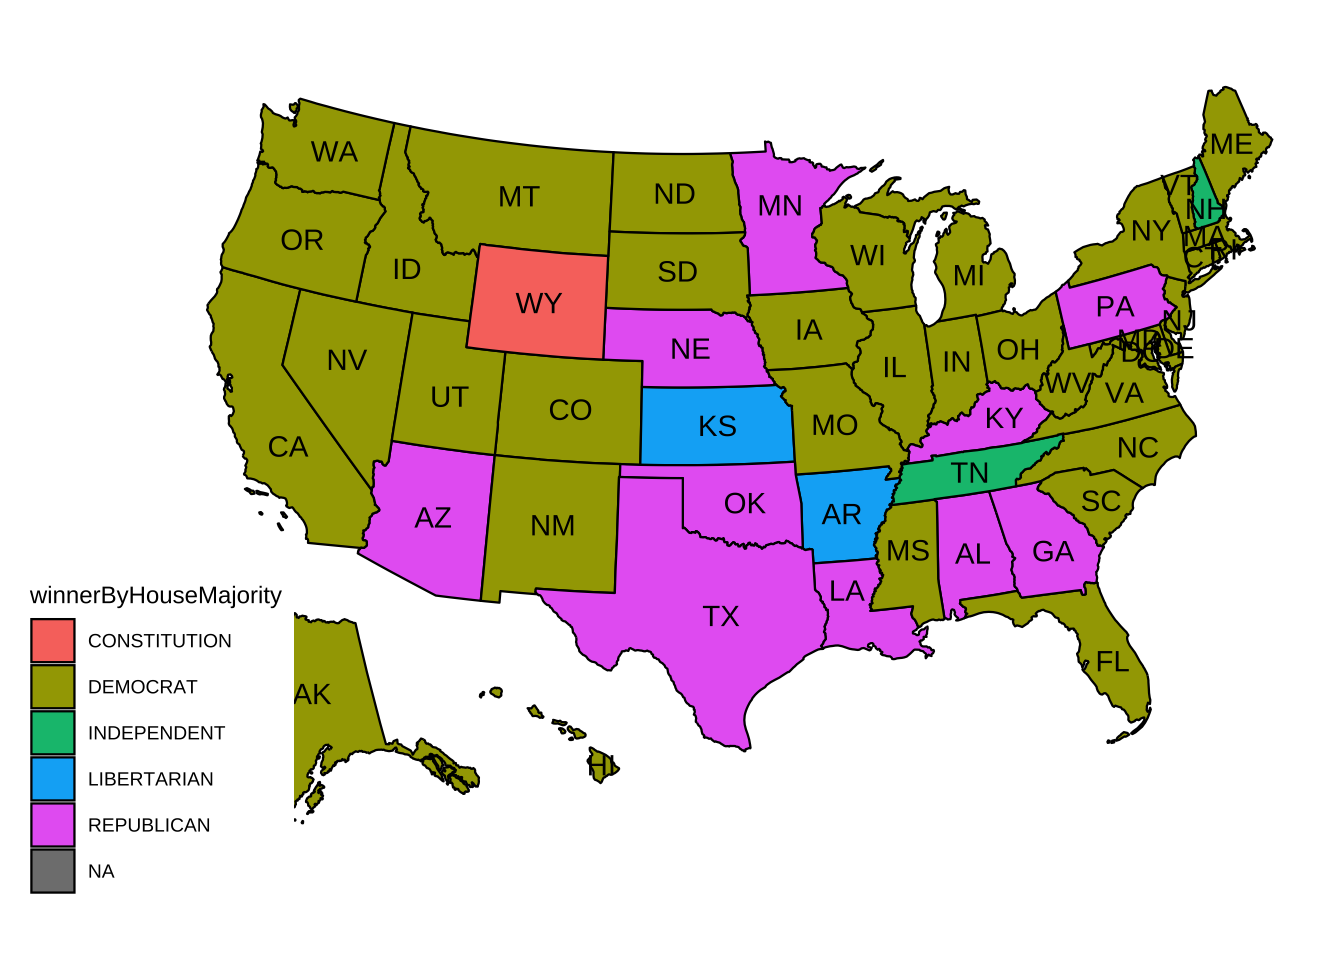
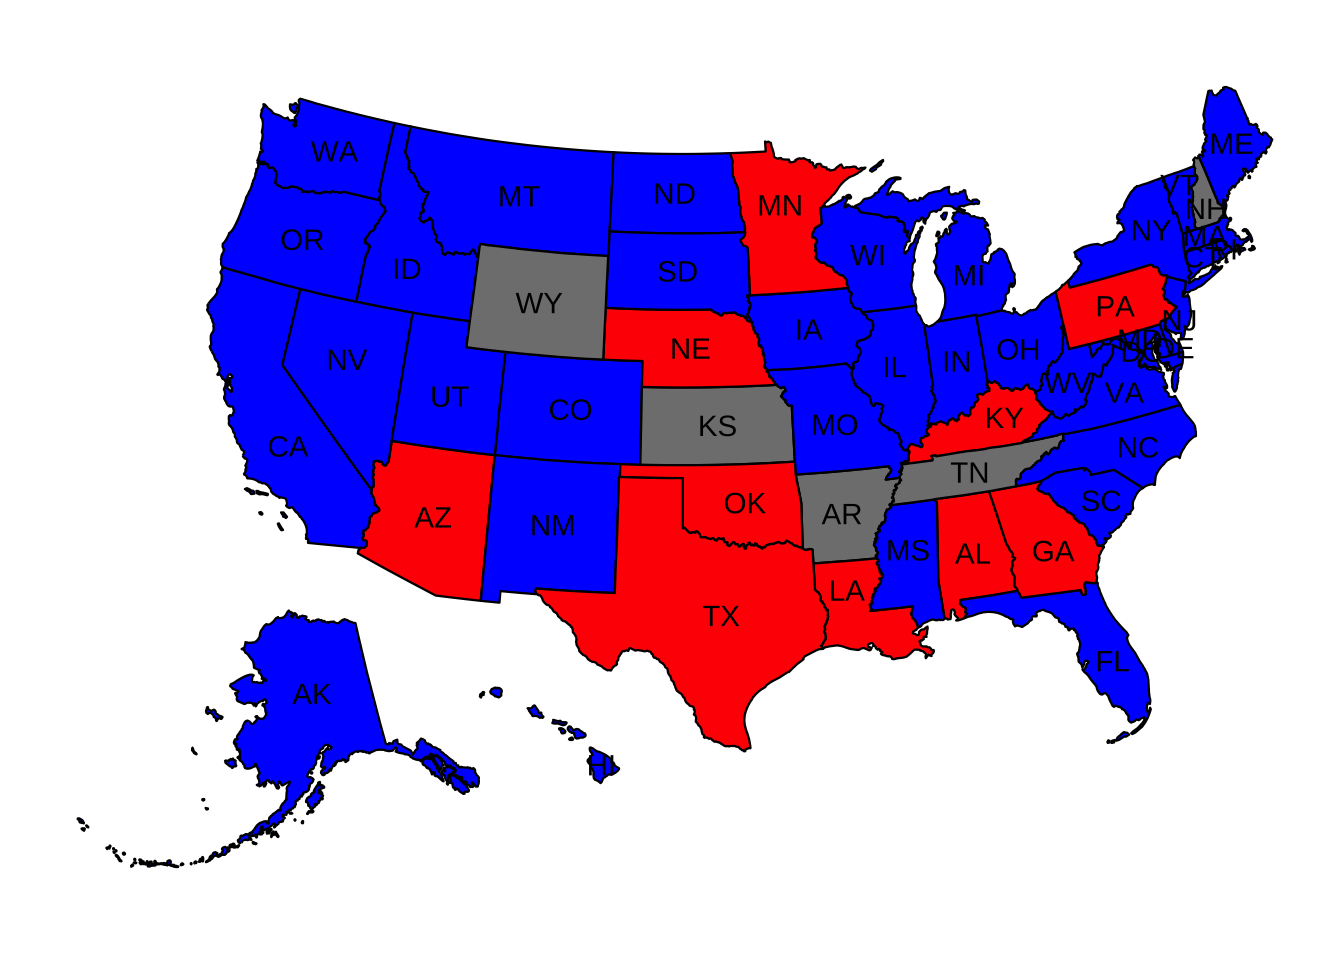
adding my changes

diff --git a/_site/index.html b/_site/index.html
@@ -219,7 +219,9 @@ pre > code.sourceCode > span > a:first-child::before { text-decoration: underlin
 <span id="cb3-7"><a href="#cb3-7" aria-hidden="true" tabindex="-1"></a>               dplyr,</span>
 <span id="cb3-8"><a href="#cb3-8" aria-hidden="true" tabindex="-1"></a>               usmap,</span>
 <span id="cb3-9"><a href="#cb3-9" aria-hidden="true" tabindex="-1"></a>               sf,</span>
-<span id="cb3-10"><a href="#cb3-10" aria-hidden="true" tabindex="-1"></a>               ggrepel)</span></code><button title="Copy to Clipboard" class="code-copy-button"><i class="bi"></i></button></pre></div>
+<span id="cb3-10"><a href="#cb3-10" aria-hidden="true" tabindex="-1"></a>               ggrepel,</span>
+<span id="cb3-11"><a href="#cb3-11" aria-hidden="true" tabindex="-1"></a>               scales,</span>
+<span id="cb3-12"><a href="#cb3-12" aria-hidden="true" tabindex="-1"></a>               usmapdata)</span></code><button title="Copy to Clipboard" class="code-copy-button"><i class="bi"></i></button></pre></div>
 </div>
 <p>Add new sections as necessary [DELETE BEFORE TURNING IN]</p>
 </section>
@@ -281,15 +283,18 @@ lgl (5): runoff, special, writein, unofficial, fusion_ticket
 <span id="cb9-16"><a href="#cb9-16" aria-hidden="true" tabindex="-1"></a>    <span class="fu">group_by</span>(state) <span class="sc">|&gt;</span></span>
 <span id="cb9-17"><a href="#cb9-17" aria-hidden="true" tabindex="-1"></a>    <span class="fu">summarize</span>(<span class="at">winnerByTotalVotes =</span> party[<span class="fu">which.max</span>(candidatevotes)], </span>
 <span id="cb9-18"><a href="#cb9-18" aria-hidden="true" tabindex="-1"></a>              <span class="at">partyVotes =</span> <span class="fu">sum</span>(candidatevotes)) <span class="sc">|&gt;</span></span>
-<span id="cb9-19"><a href="#cb9-19" aria-hidden="true" tabindex="-1"></a>    <span class="fu">mutate</span>(<span class="at">fips =</span> <span class="fu">fips</span>(state)) <span class="co">#necessary for plotting on US map</span></span>
+<span id="cb9-19"><a href="#cb9-19" aria-hidden="true" tabindex="-1"></a>    <span class="fu">mutate</span>(<span class="at">fips =</span> <span class="fu">fips</span>(state)) <span class="co">#necessary for plotting on US map only on this plot because we will merge</span></span>
 <span id="cb9-20"><a href="#cb9-20" aria-hidden="true" tabindex="-1"></a>  <span class="fu">assign</span>(<span class="fu">paste0</span>(<span class="st">'genMaj'</span>,</span>
 <span id="cb9-21"><a href="#cb9-21" aria-hidden="true" tabindex="-1"></a>                date), </span>
 <span id="cb9-22"><a href="#cb9-22" aria-hidden="true" tabindex="-1"></a>         result)</span>
 <span id="cb9-23"><a href="#cb9-23" aria-hidden="true" tabindex="-1"></a>}</span>
 <span id="cb9-24"><a href="#cb9-24" aria-hidden="true" tabindex="-1"></a></span>
-<span id="cb9-25"><a href="#cb9-25" aria-hidden="true" tabindex="-1"></a>data2016 <span class="ot">&lt;-</span> <span class="fu">merge</span>(genMaj2016,partyMaj2016)</span>
-<span id="cb9-26"><a href="#cb9-26" aria-hidden="true" tabindex="-1"></a>data2018 <span class="ot">&lt;-</span> <span class="fu">merge</span>(genMaj2018, partyMaj2018)</span>
-<span id="cb9-27"><a href="#cb9-27" aria-hidden="true" tabindex="-1"></a>data2020 <span class="ot">&lt;-</span> <span class="fu">merge</span>(genMaj2020, partyMaj2020)</span></code><button title="Copy to Clipboard" class="code-copy-button"><i class="bi"></i></button></pre></div>
+<span id="cb9-25"><a href="#cb9-25" aria-hidden="true" tabindex="-1"></a>data2016 <span class="ot">&lt;-</span> <span class="fu">merge</span>(genMaj2016,partyMaj2016) <span class="sc">|&gt;</span></span>
+<span id="cb9-26"><a href="#cb9-26" aria-hidden="true" tabindex="-1"></a>  <span class="fu">merge</span>(<span class="fu">centroid_labels</span>(<span class="at">regions =</span> <span class="fu">c</span>(<span class="st">'states'</span>)), <span class="at">by =</span> <span class="st">"fips"</span>) <span class="co">#adds in data for centroid of each state</span></span>
+<span id="cb9-27"><a href="#cb9-27" aria-hidden="true" tabindex="-1"></a>data2018 <span class="ot">&lt;-</span> <span class="fu">merge</span>(genMaj2018, partyMaj2018) <span class="sc">|&gt;</span> </span>
+<span id="cb9-28"><a href="#cb9-28" aria-hidden="true" tabindex="-1"></a>  <span class="fu">merge</span>(<span class="fu">centroid_labels</span>(<span class="at">regions =</span> <span class="fu">c</span>(<span class="st">'states'</span>)), <span class="at">by =</span> <span class="st">"fips"</span>)</span>
+<span id="cb9-29"><a href="#cb9-29" aria-hidden="true" tabindex="-1"></a>data2020 <span class="ot">&lt;-</span> <span class="fu">merge</span>(genMaj2020, partyMaj2020) <span class="sc">|&gt;</span></span>
+<span id="cb9-30"><a href="#cb9-30" aria-hidden="true" tabindex="-1"></a>  <span class="fu">merge</span>(<span class="fu">centroid_labels</span>(<span class="at">regions =</span> <span class="fu">c</span>(<span class="st">'states'</span>)), <span class="at">by =</span> <span class="st">"fips"</span>)</span></code><button title="Copy to Clipboard" class="code-copy-button"><i class="bi"></i></button></pre></div>
 </div>
 </section>
 <section id="data-visualization" class="level2">
@@ -298,8 +303,8 @@ lgl (5): runoff, special, writein, unofficial, fusion_ticket
 <div class="sourceCode cell-code" id="cb10"><pre class="sourceCode r code-with-copy"><code class="sourceCode r"><span id="cb10-1"><a href="#cb10-1" aria-hidden="true" tabindex="-1"></a><span class="co">#general plot just to get used to the function. We can add layers like a ggplot object</span></span>
 <span id="cb10-2"><a href="#cb10-2" aria-hidden="true" tabindex="-1"></a><span class="co">#For Question 1 we want three maps of the US where each state is colored based on the winning party, then also a number for each state corresponding to the party that had the most votes</span></span>
 <span id="cb10-3"><a href="#cb10-3" aria-hidden="true" tabindex="-1"></a></span>
-<span id="cb10-4"><a href="#cb10-4" aria-hidden="true" tabindex="-1"></a></span>
-<span id="cb10-5"><a href="#cb10-5" aria-hidden="true" tabindex="-1"></a><span class="fu">plot_usmap</span>(<span class="at">data =</span> data2016, <span class="at">values =</span> <span class="st">"winnerByHouseMajority"</span>, <span class="at">labels =</span> <span class="cn">TRUE</span>)</span></code><button title="Copy to Clipboard" class="code-copy-button"><i class="bi"></i></button></pre></div>
+<span id="cb10-4"><a href="#cb10-4" aria-hidden="true" tabindex="-1"></a><span class="fu">plot_usmap</span>(<span class="at">data =</span> data2016, <span class="at">values =</span> <span class="st">"winnerByHouseMajority"</span>, <span class="at">labels =</span> <span class="cn">TRUE</span>) <span class="sc">+</span> </span>
+<span id="cb10-5"><a href="#cb10-5" aria-hidden="true" tabindex="-1"></a>  <span class="fu">scale_fill_manual</span>(<span class="at">values =</span> <span class="fu">c</span>(<span class="st">"REPUBLICAN"</span> <span class="ot">=</span> <span class="st">"red"</span>, <span class="st">"DEMOCRAT"</span> <span class="ot">=</span> <span class="st">"blue"</span>), <span class="at">guide =</span> <span class="st">'none'</span>) </span></code><button title="Copy to Clipboard" class="code-copy-button"><i class="bi"></i></button></pre></div>
 <div class="cell-output-display">
 <div>
 <figure class="figure">
@@ -307,6 +312,10 @@ lgl (5): runoff, special, writein, unofficial, fusion_ticket
 </figure>
 </div>
 </div>
+<div class="sourceCode cell-code" id="cb11"><pre class="sourceCode r code-with-copy"><code class="sourceCode r"><span id="cb11-1"><a href="#cb11-1" aria-hidden="true" tabindex="-1"></a><span class="co"># +   geom_text(data = data2016, aes(</span></span>
+<span id="cb11-2"><a href="#cb11-2" aria-hidden="true" tabindex="-1"></a><span class="co">#     x = x, y = y,</span></span>
+<span id="cb11-3"><a href="#cb11-3" aria-hidden="true" tabindex="-1"></a><span class="co">#     label = scales::number(winnerByTotalVotes)</span></span>
+<span id="cb11-4"><a href="#cb11-4" aria-hidden="true" tabindex="-1"></a><span class="co">#   ), color = "white")</span></span></code><button title="Copy to Clipboard" class="code-copy-button"><i class="bi"></i></button></pre></div>
 </div>
 
 
